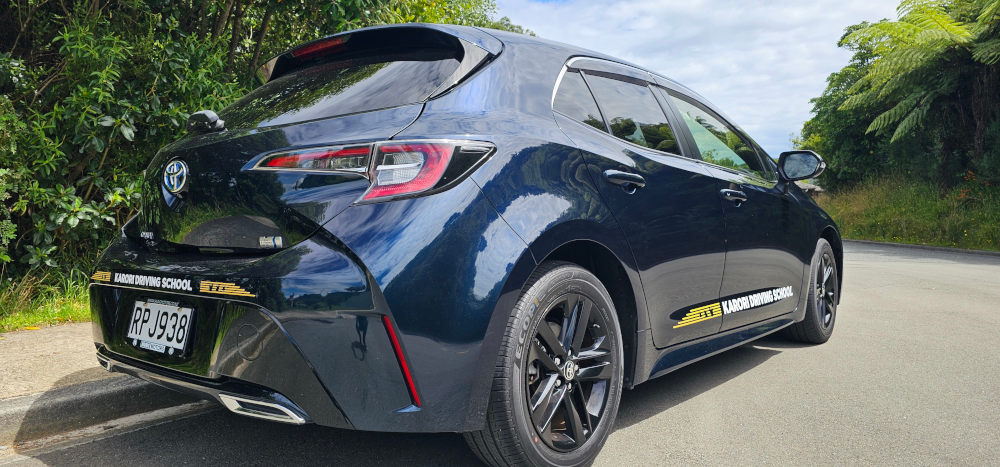
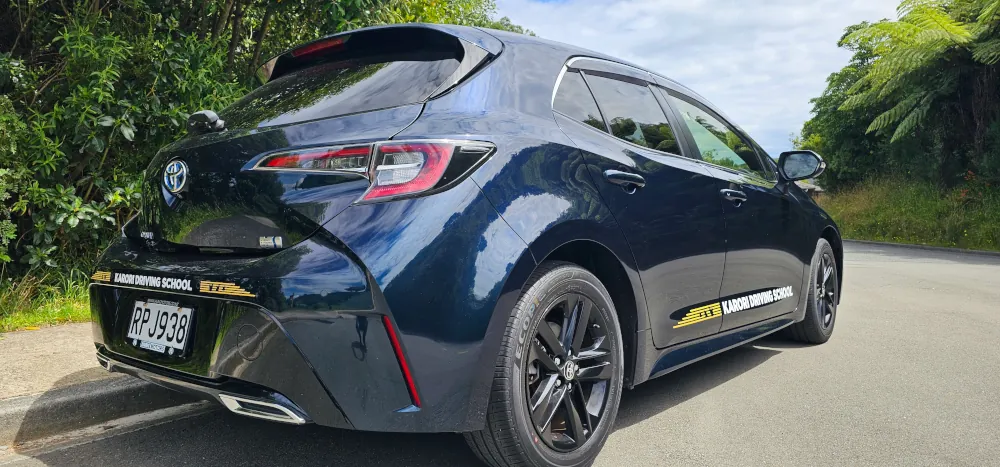
further reductions in image size and font awesome removal

diff --git a/website/index.html b/website/index.html
@@ -9,10 +9,6 @@
     />
     <title>Karori Driving School</title>
     <link rel="icon" type="image/x-icon" href="/favicon.ico" />
-    <link
-      rel="stylesheet"
-      href="https://cdnjs.cloudflare.com/ajax/libs/font-awesome/6.0.0/css/all.min.css"
-    />
     <link rel="stylesheet" href="/static/style.css" />
   </head>
   <body>
@@ -191,10 +187,16 @@
           </div>
           <div class="review-nav">
             <button id="prev-review-btn" aria-label="Previous Review">
-              <i class="fas fa-arrow-left"></i>
+              <svg width="20" height="20" viewBox="0 0 24 24" fill="none" stroke="currentColor" stroke-width="2.5" stroke-linecap="round" stroke-linejoin="round" style="display: block; margin: auto;">
+    <line x1="19" y1="12" x2="5" y2="12"></line>
+    <polyline points="12 19 5 12 12 5"></polyline>
+  </svg>
             </button>
             <button id="next-review-btn" aria-label="Next Review">
-              <i class="fas fa-arrow-right"></i>
+              <svg width="20" height="20" viewBox="0 0 24 24" fill="none" stroke="currentColor" stroke-width="2.5" stroke-linecap="round" stroke-linejoin="round" style="display: block; margin: auto;">
+    <line x1="5" y1="12" x2="19" y2="12"></line>
+    <polyline points="12 5 19 12 12 19"></polyline>
+  </svg>
             </button>
           </div>
         </section>
@@ -205,13 +207,18 @@
 
           <div class="contact-info">
             <span>
-              <i class="fas fa-envelope-open"></i>
+              <svg width="20" height="20" viewBox="0 0 24 24" fill="none" stroke="currentColor" stroke-width="2" stroke-linecap="round" stroke-linejoin="round" style="display: inline-block; vertical-align: middle; margin-right: 8px;">
+  <path d="M4 4h16c1.1 0 2 .9 2 2v12c0 1.1-.9 2-2 2H4c-1.1 0-2-.9-2-2V6c0-1.1.9-2 2-2z"></path>
+  <polyline points="22,6 12,13 2,6"></polyline>
+</svg>
               <a href="mailto:lessons@karoridrivingschool.co.nz"
                 >lessons@karoridrivingschool.co.nz</a
               >
             </span>
             <span>
-              <i class="fas fa-phone"></i>
+              <svg width="20" height="20" viewBox="0 0 24 24" fill="currentColor" style="display: inline-block; vertical-align: middle; margin-right: 8px;">
+  <path d="M20 15.5c-1.2 0-2.4-.2-3.6-.6-.3-.1-.7 0-1 .2l-2.2 2.2c-2.8-1.4-5.1-3.8-6.6-6.6l2.2-2.2c.3-.3.4-.7.2-1-.3-1.1-.5-2.3-.5-3.5 0-.6-.4-1-1-1H4c-.6 0-1 .4-1 1 0 9.4 7.6 17 17 17 .6 0 1-.4 1-1v-3.5c0-.6-.4-1-1-1z"></path>
+</svg>
               <a href="sms:021440260">021440260</a>
             </span>
             <section id="nzide" class="section-block">

diff --git a/website/enquire.html b/website/enquire.html
@@ -9,10 +9,6 @@
     />
     <title>Book a Lesson - Karori Driving School</title>
     <link rel="icon" type="image/x-icon" href="/favicon.ico" />
-    <link
-      rel="stylesheet"
-      href="https://cdnjs.cloudflare.com/ajax/libs/font-awesome/6.0.0/css/all.min.css"
-    />
     <link rel="stylesheet" href="/static/style.css" />
   </head>
   <body>
@@ -104,11 +100,16 @@
       <footer id="contact" class="contact-section">
         <div class="contact-info">
           <span>
-            <i class="fas fa-envelope-open"></i>
+            <svg width="20" height="20" viewBox="0 0 24 24" fill="none" stroke="currentColor" stroke-width="2" stroke-linecap="round" stroke-linejoin="round" style="display: inline-block; vertical-align: middle; margin-right: 8px;">
+  <path d="M4 4h16c1.1 0 2 .9 2 2v12c0 1.1-.9 2-2 2H4c-1.1 0-2-.9-2-2V6c0-1.1.9-2 2-2z"></path>
+  <polyline points="22,6 12,13 2,6"></polyline>
+</svg>
             <a href="mailto:lessons@karoridrivingschool.co.nz">lessons@karoridrivingschool.co.nz</a>
           </span>
           <span>
-            <i class="fas fa-phone"></i>
+            <svg width="20" height="20" viewBox="0 0 24 24" fill="currentColor" style="display: inline-block; vertical-align: middle; margin-right: 8px;">
+  <path d="M20 15.5c-1.2 0-2.4-.2-3.6-.6-.3-.1-.7 0-1 .2l-2.2 2.2c-2.8-1.4-5.1-3.8-6.6-6.6l2.2-2.2c.3-.3.4-.7.2-1-.3-1.1-.5-2.3-.5-3.5 0-.6-.4-1-1-1H4c-.6 0-1 .4-1 1 0 9.4 7.6 17 17 17 .6 0 1-.4 1-1v-3.5c0-.6-.4-1-1-1z"></path>
+</svg>
             <a href="sms:021440260">021440260</a>
           </span>
         </div>
